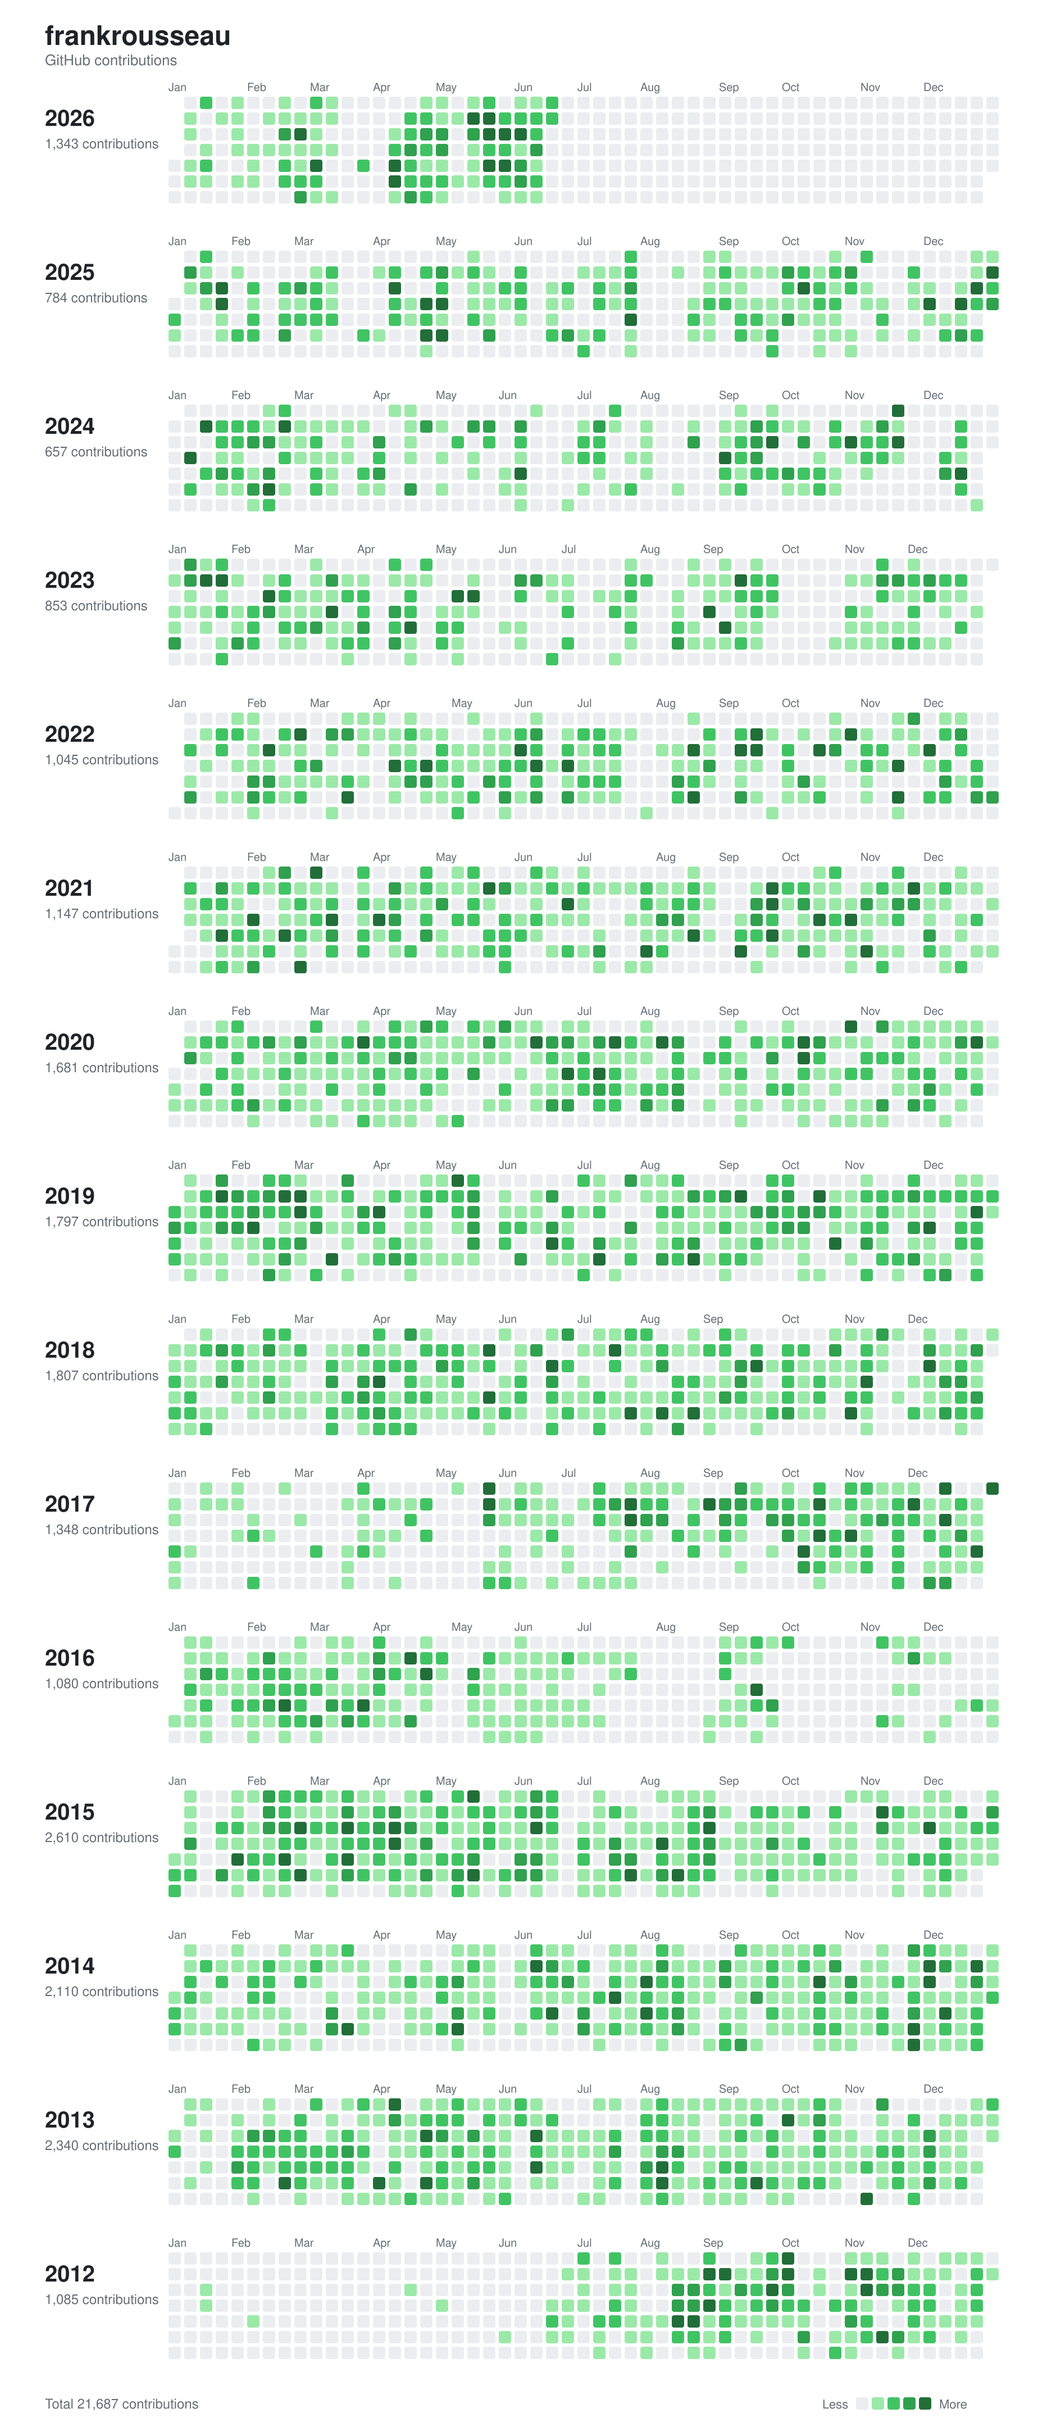
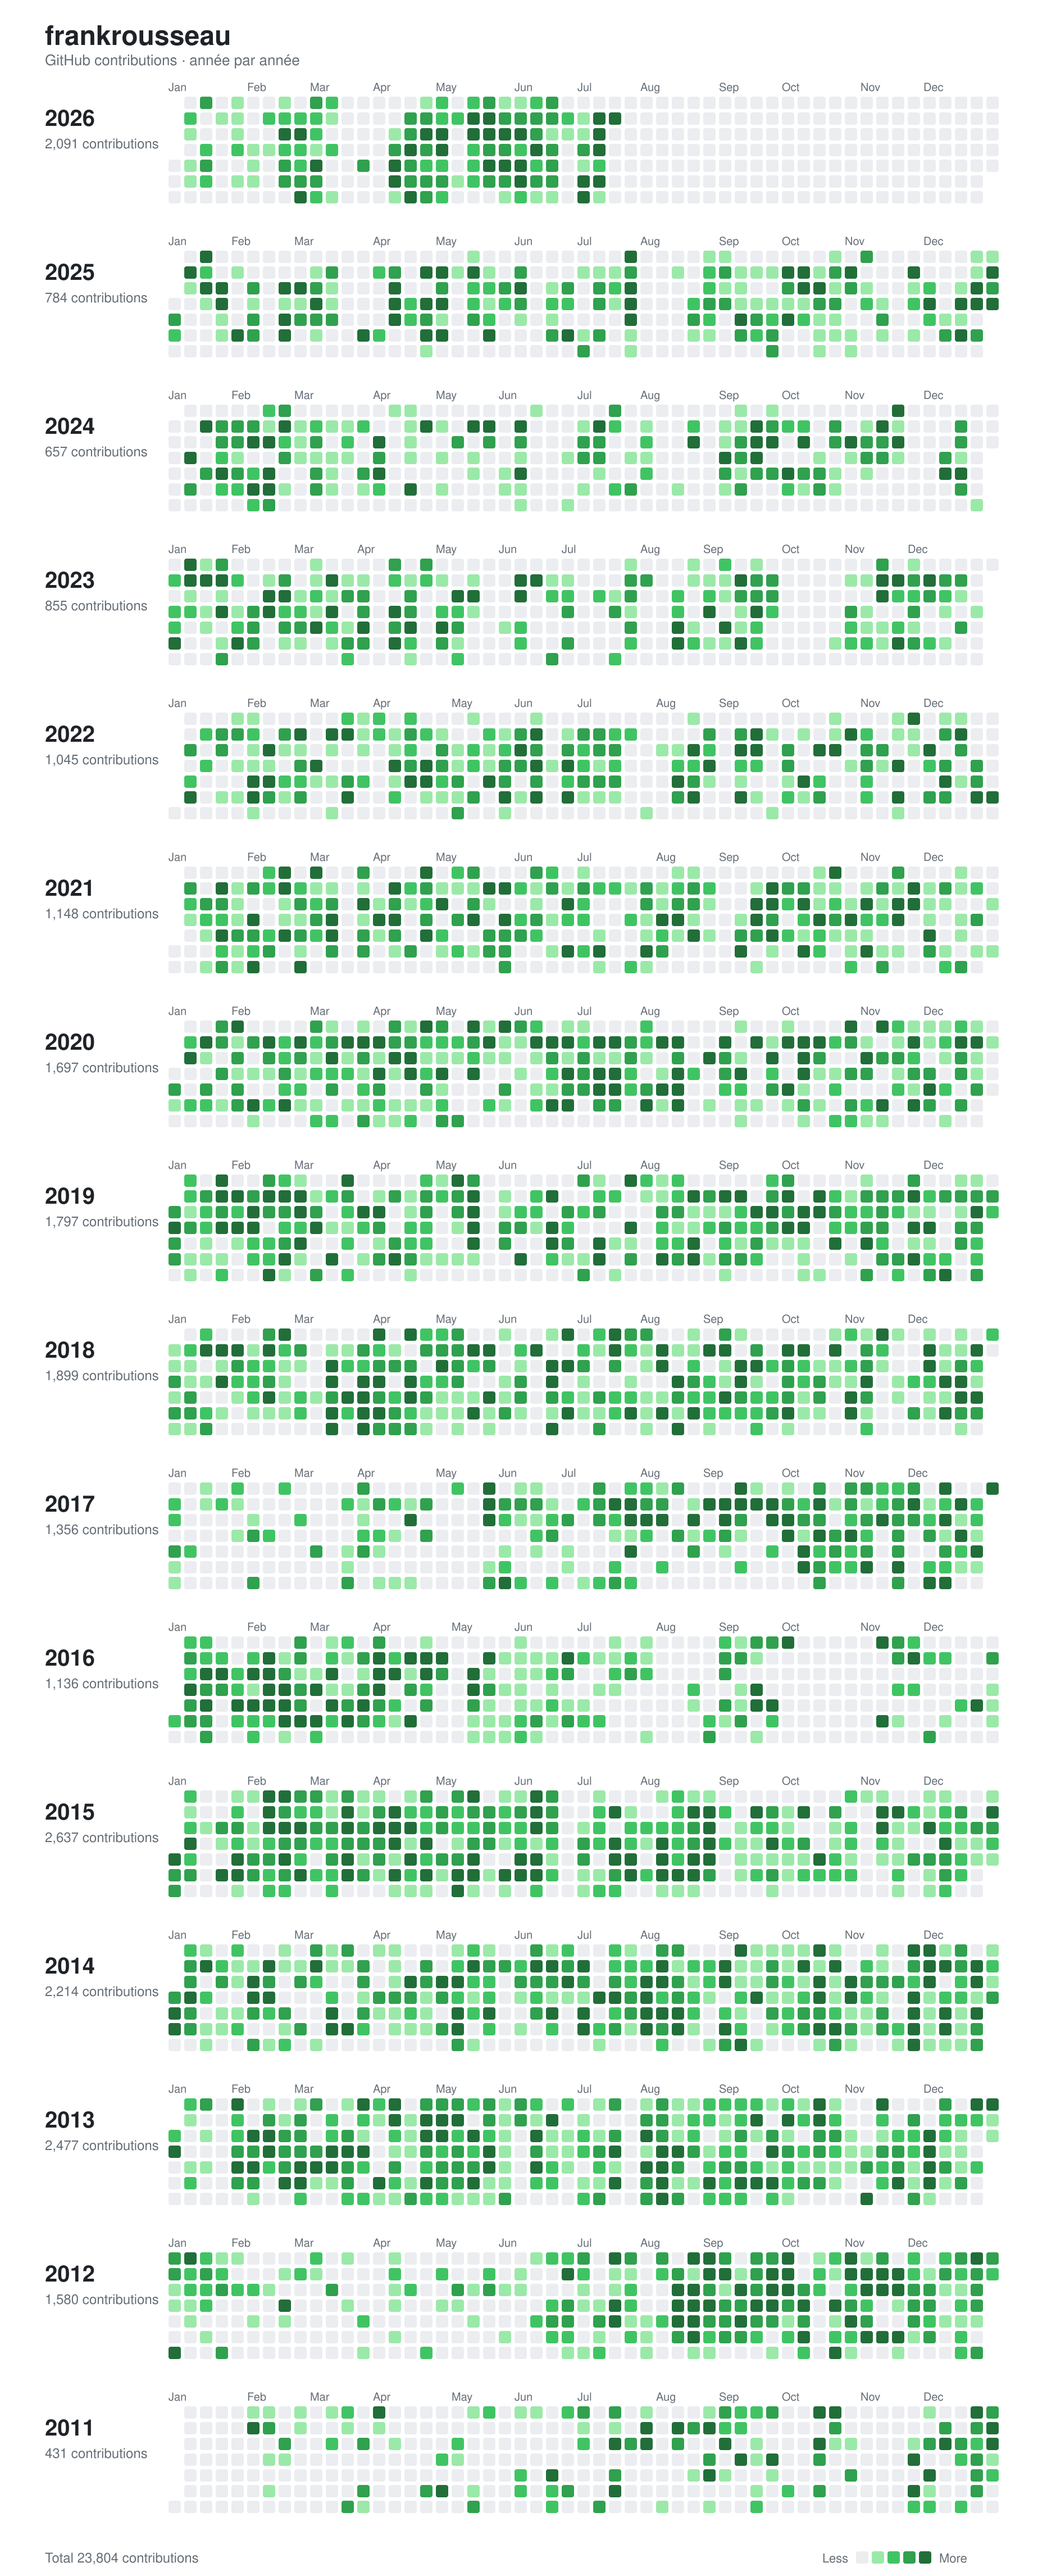
Update contribution picture with gelnior account heatmap

diff --git a/index.html b/index.html
@@ -632,8 +632,11 @@
     </ul>
 
     <p class="center mt2">
-      <img src="images/contributions.png" alt="Eyes Doodle" width="676"
-        height="1269" loading="lazy">
+      <img 
+        src="images/contributions.png" 
+        alt="Contribution heatmap" 
+        loading="lazy"
+      >
     </p>
 
     <p class="center dots">
